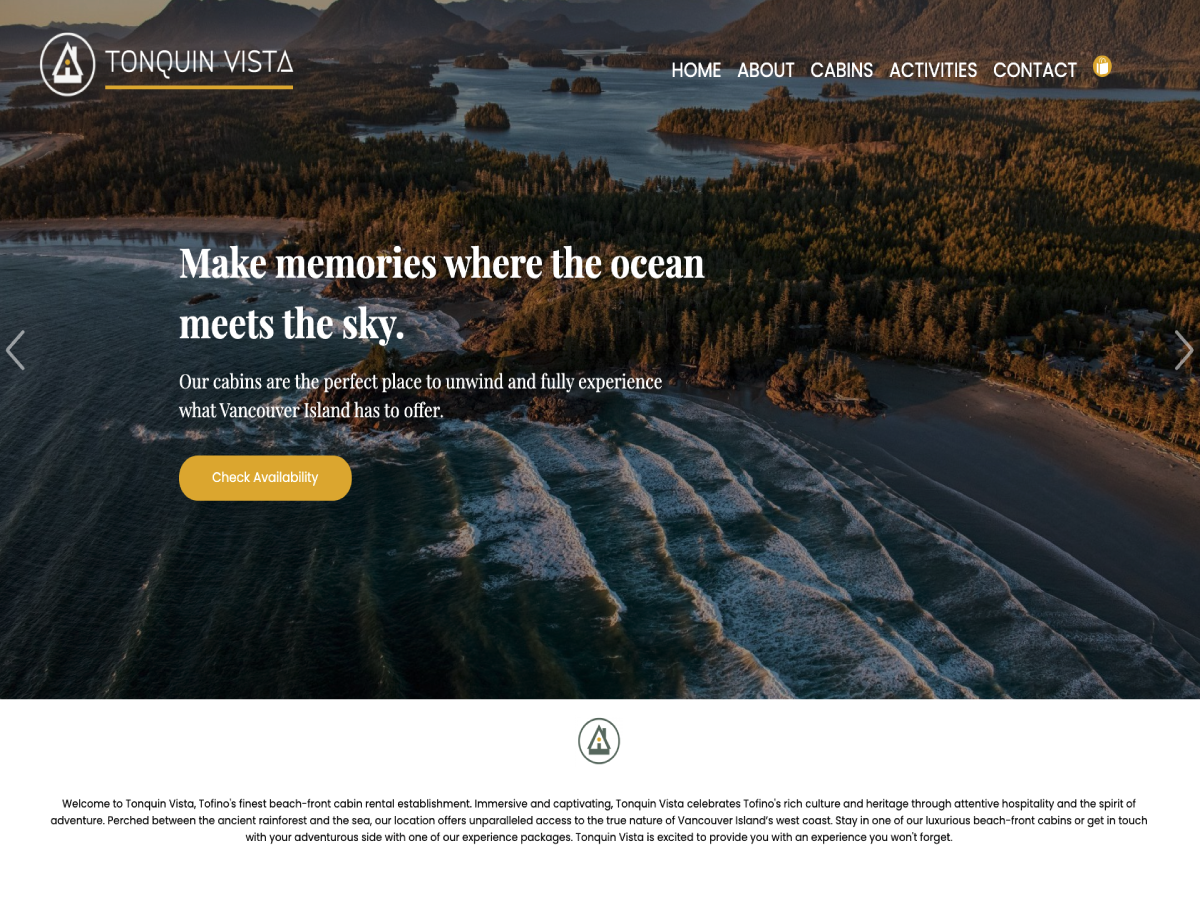
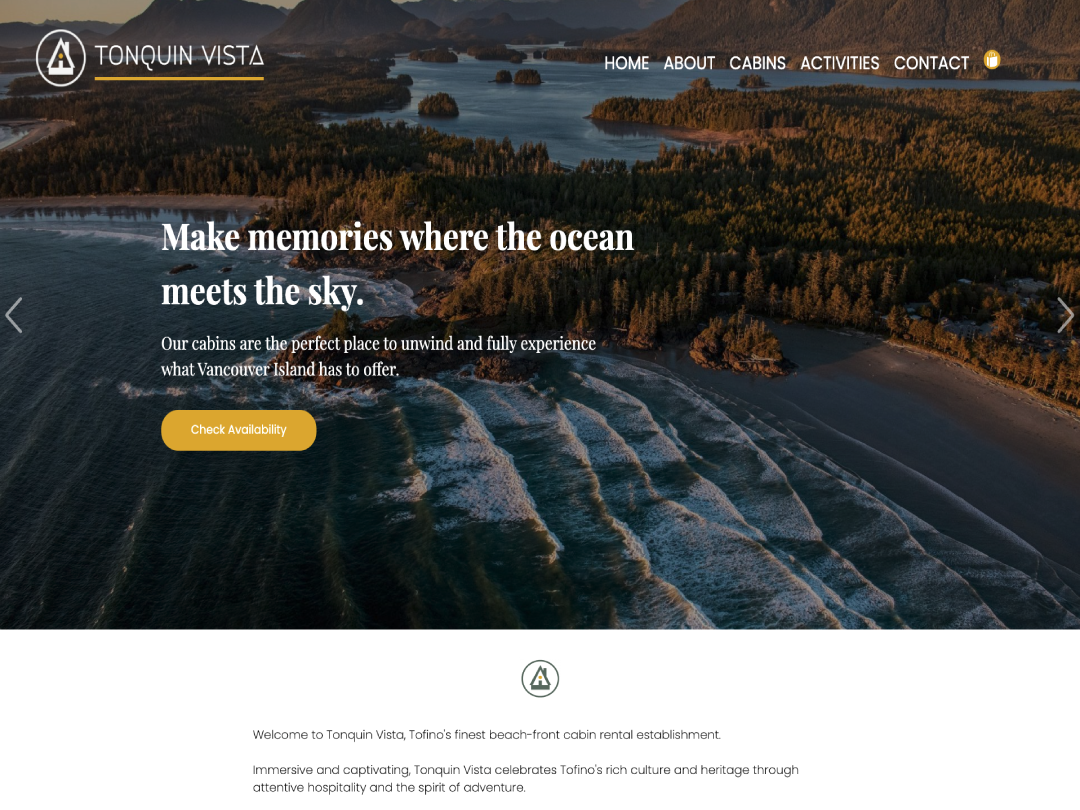
removed dashboard widgets in functions.php, added updated screenshot, and finalized styles on checkout page to style tax line

diff --git a/sass/components/content/_page-shop-checkout.scss b/sass/components/content/_page-shop-checkout.scss
@@ -66,8 +66,13 @@
     justify-content: flex-end;
 }
 
-.page-id-12 .cart-subtotal, .page-id-12 .order-total {
+.page-id-12 .tax-total .woocommerce-Price-amount {
     text-align: right;
+}
+
+.page-id-12 .cart-subtotal, .page-id-12 .order-total {
+    display: flex;
+    justify-content: flex-end;
 }
 
 .page-id-12 .wc_payment_methods.payment_methods.methods {

diff --git a/functions.php b/functions.php
@@ -224,6 +224,22 @@ function my_login_logo() { ?>
 <?php }
 add_action( 'login_enqueue_scripts', 'my_login_logo' );
 
+// REMOVES ALL OF THE FOLLOWING DASHBOARD WIDGETS
+// Create the function to use in the action hook
+function wporg_remove_dashboard_widget() {
+    remove_meta_box( 'dashboard_primary', 'dashboard', 'side' );
+	remove_meta_box( 'health_check_status', 'dashboard', 'normal' );
+	remove_meta_box( 'dashboard_right_now', 'dashboard', 'normal' );
+	remove_meta_box( 'dashboard_right_now', 'dashboard', 'normal' );
+	remove_meta_box( 'dashboard_activity', 'dashboard', 'normal' );
+	remove_meta_box( 'dashboard_quick_press', 'dashboard', 'side' );
+	remove_meta_box( 'wc_admin_dashboard_setup', 'dashboard', 'normal' );
+	remove_meta_box( 'dashboard_site_health', 'dashboard', 'normal' );
+	remove_meta_box( 'wpseo-dashboard-overview', 'dashboard', 'normal' );
+} 
+// Hook into the 'wp_dashboard_setup' action to register our function
+add_action( 'wp_dashboard_setup', 'wporg_remove_dashboard_widget' );
+
 // To change the link values so the logo links to your WordPress site
 function my_login_logo_url() {
     return home_url();
